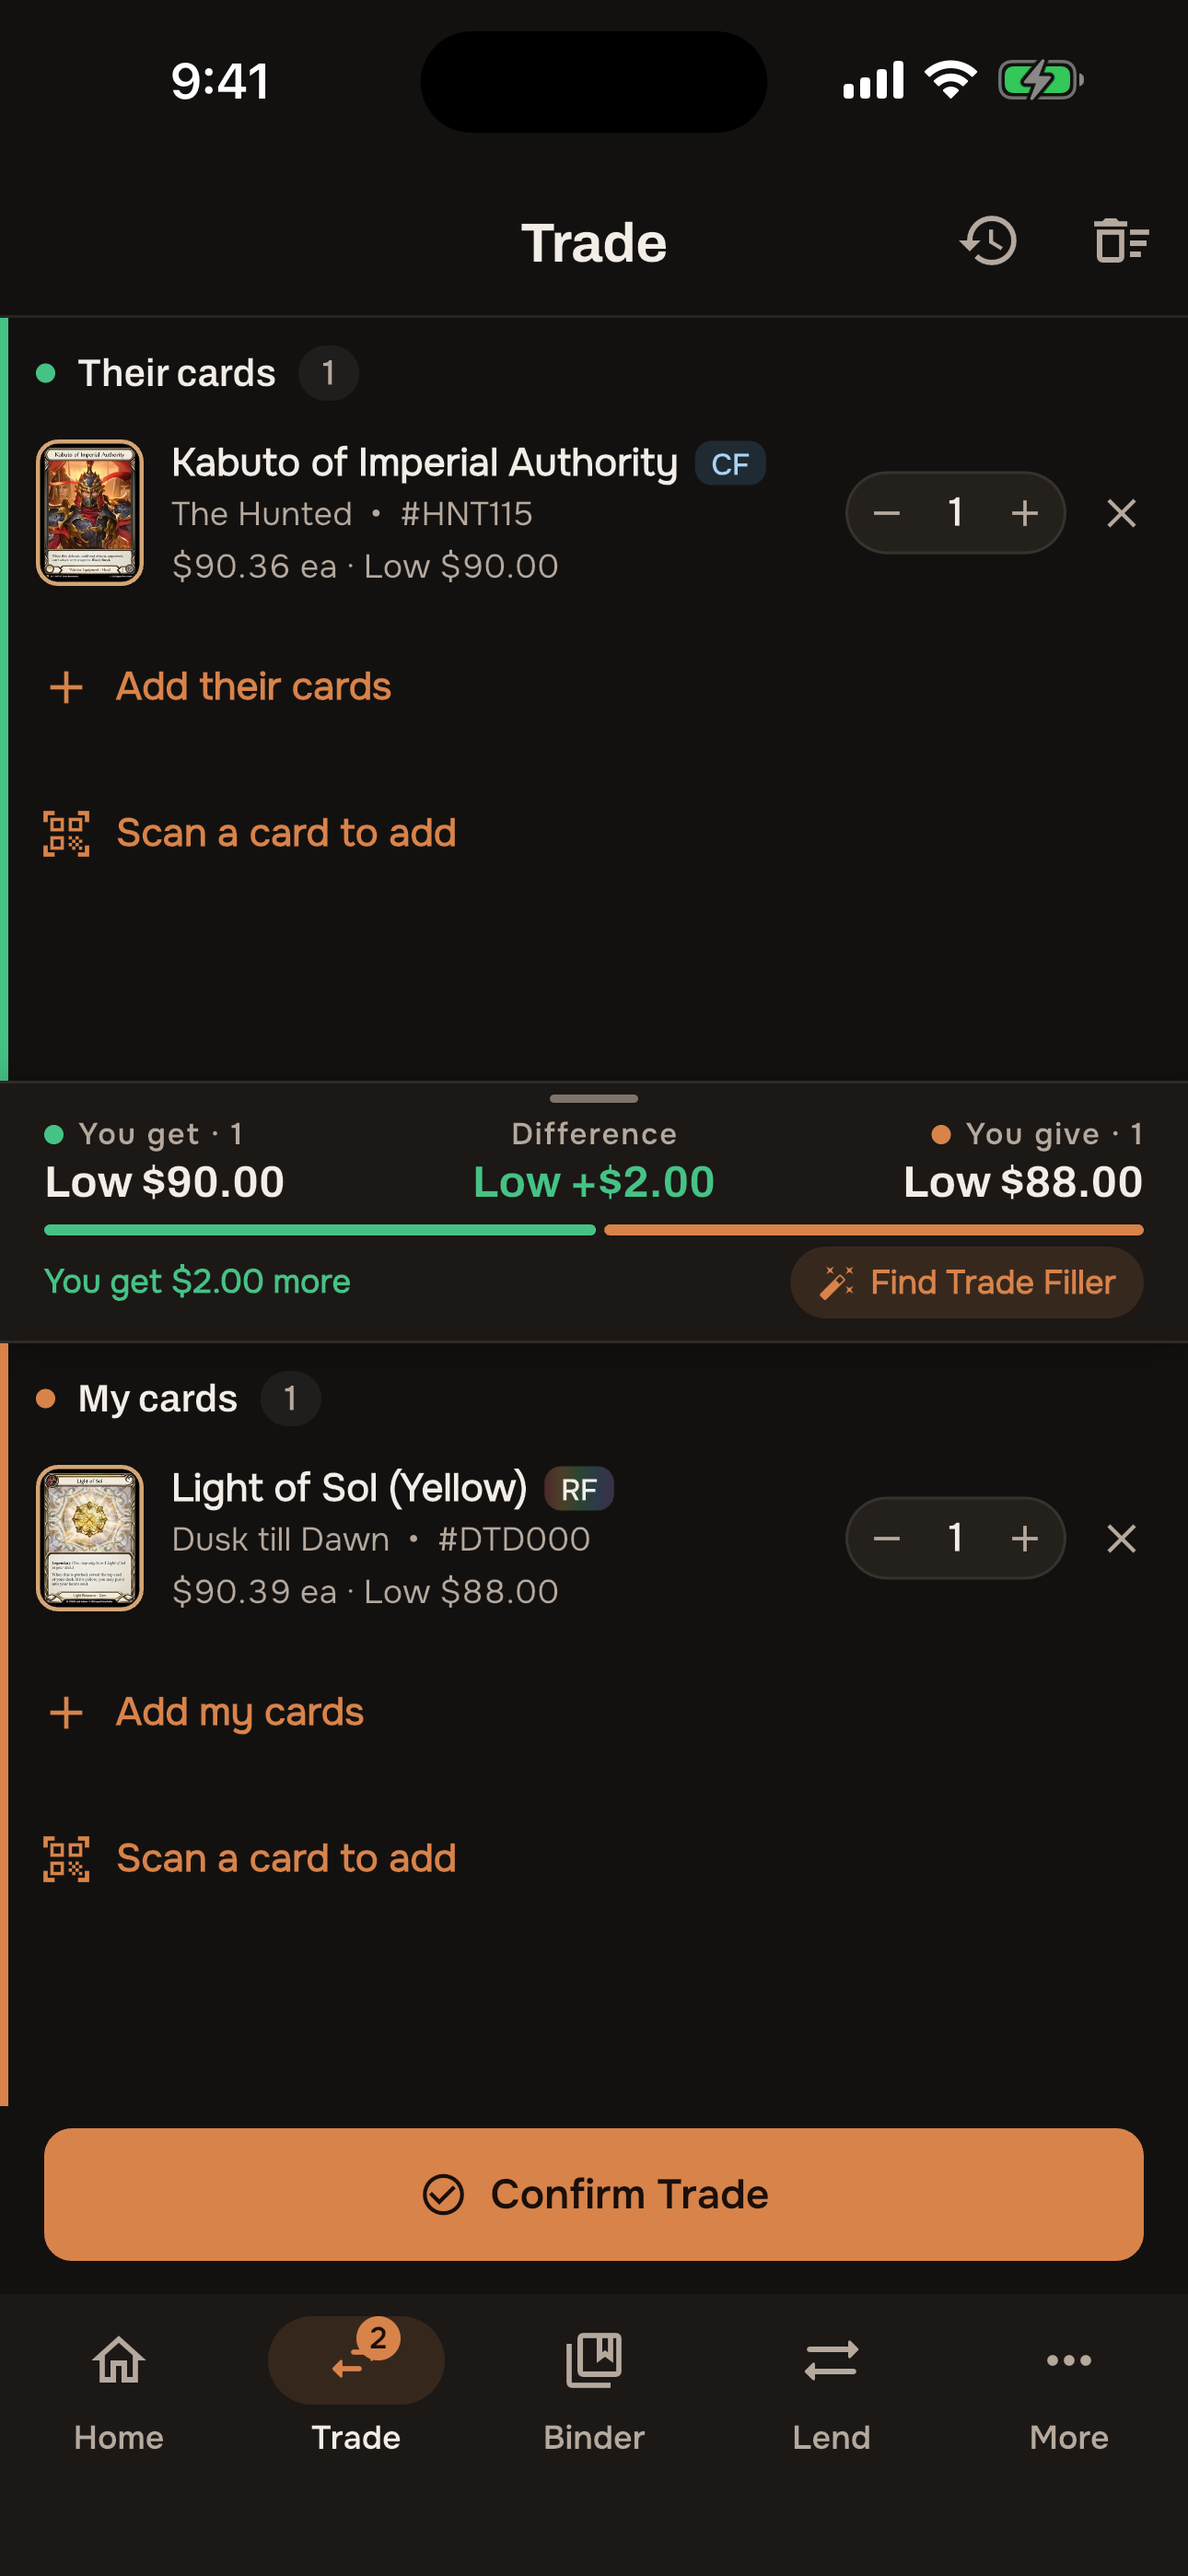
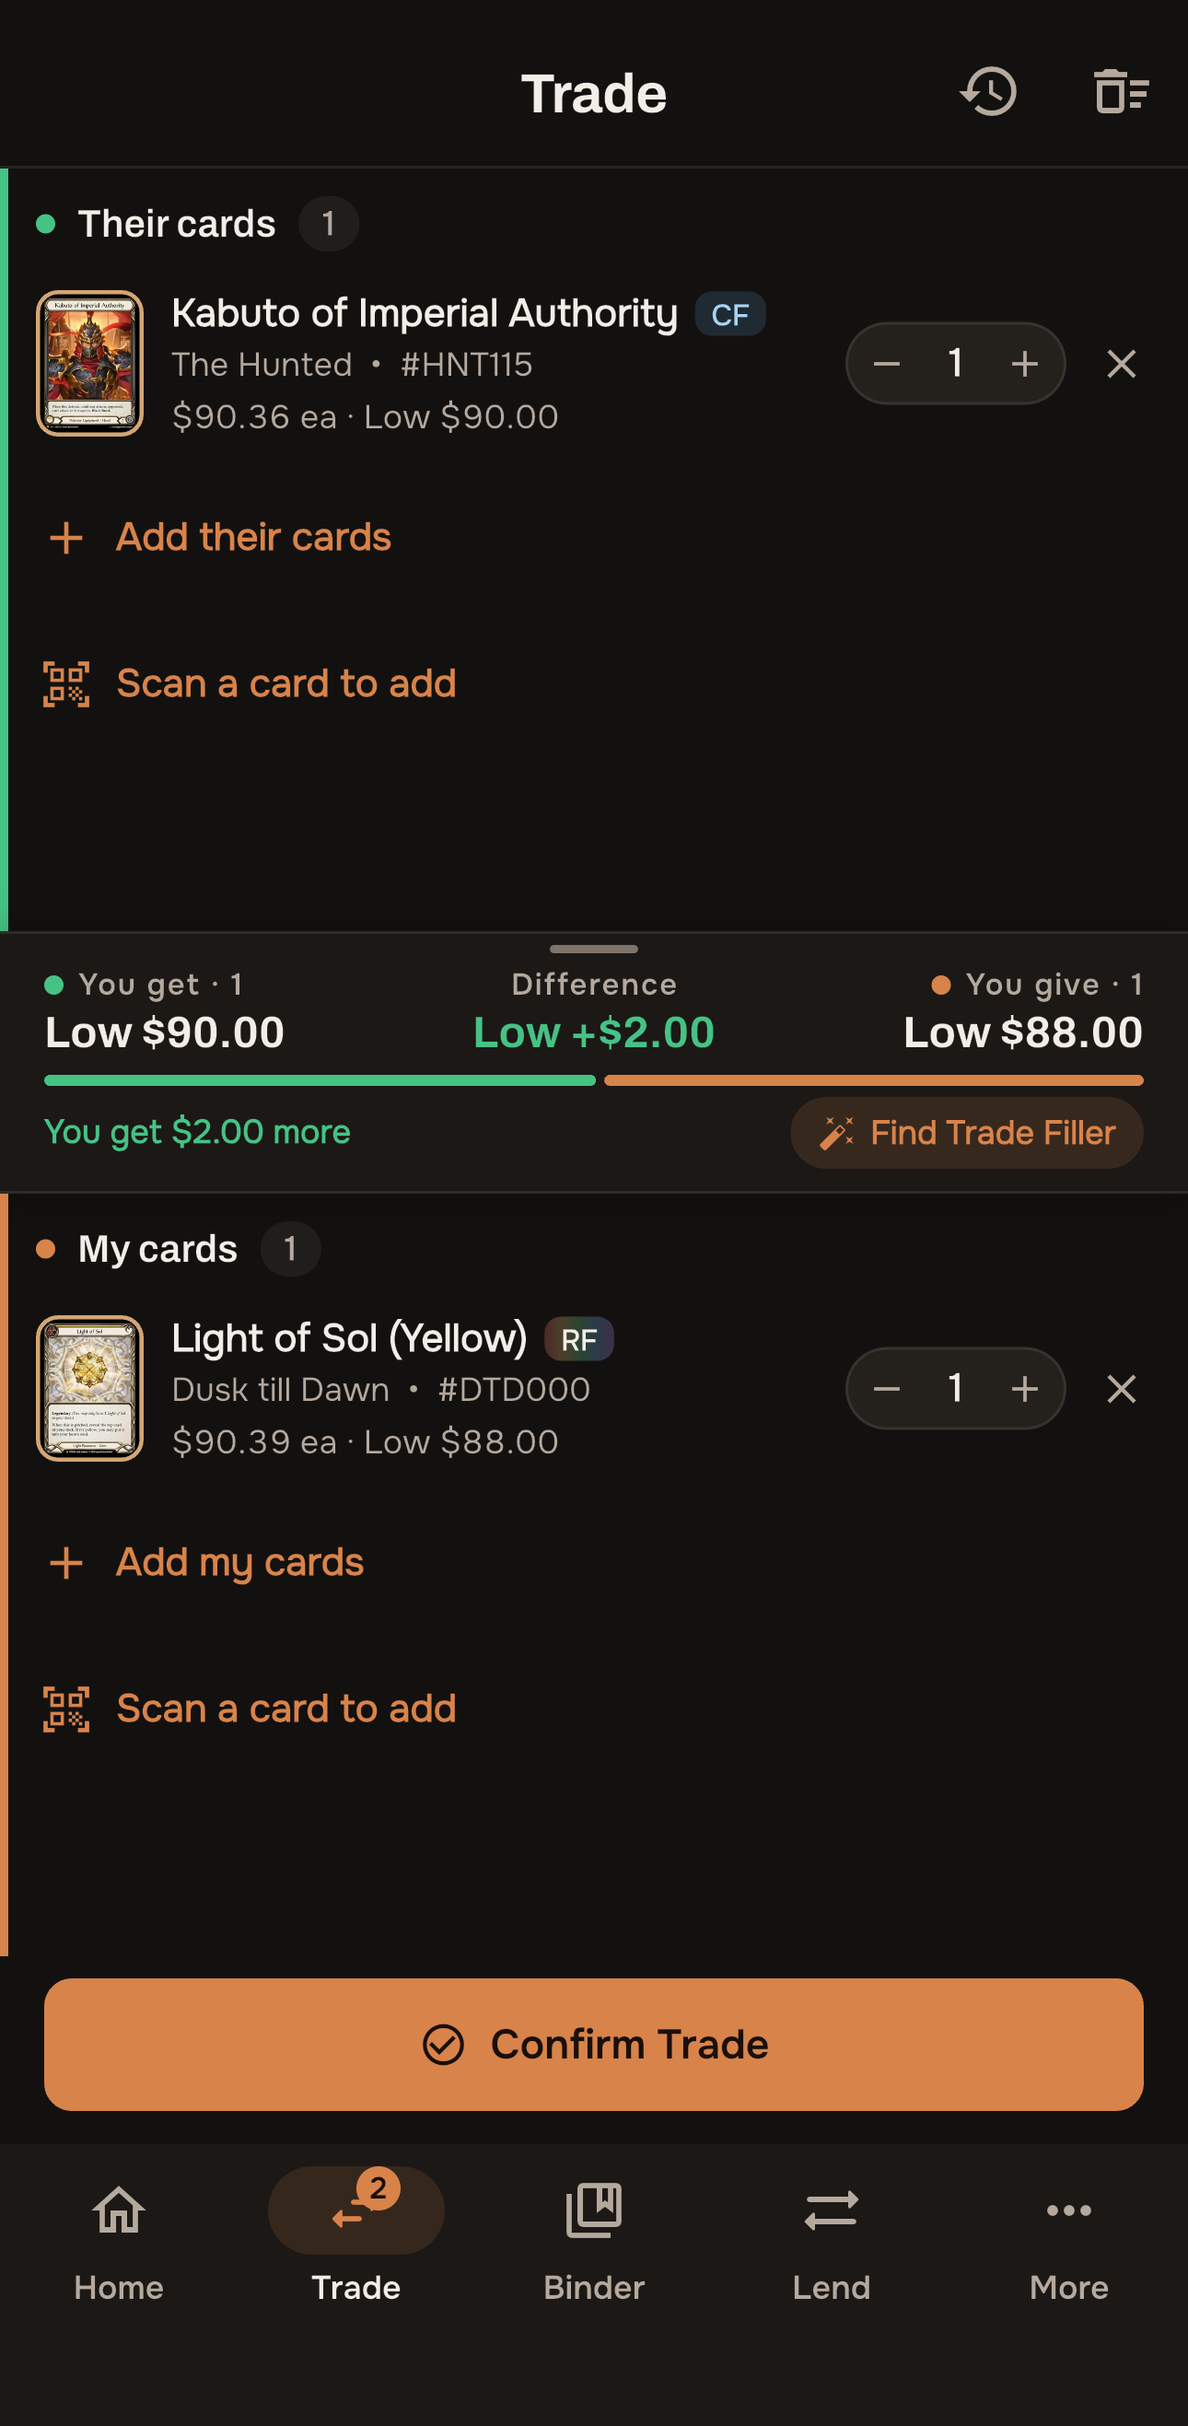
Store screenshots: frame the iOS simulator captures
Trade, Binder and Lend now come from iPhone 16 Plus simulator shots, and
Scan from the phone capture, all kept in sim/ with the status bar cropped
and their lifted-out panels in sim/boxes.json. Browse stays on the web
capture: the simulator's Fyendal's Spring Tunic page showed a mismatched
CardMarket price.

Claude-Session: https://claude.ai/code/session_01RsfGpeqNYE93T8HeFeVAYn

diff --git a/apps/mobile/tool/store_screenshots/README.md b/apps/mobile/tool/store_screenshots/README.md
@@ -28,11 +28,12 @@ It does not upload anything to either store.
 
 ## Limits
 
-- **Scan** can't be captured: the scanner needs a real camera and ML Kit, neither of
-  which runs on the web. `compose.mjs` frames `scan.png` instead, a phone screenshot
-  of a scan with the match sheet up. To replace it, crop the status bar off a new
-  iPhone screenshot, scale it to 1290px wide, save it over `scan.png`, and adjust the
-  lifted-out box on the `01-scan` entry in `compose.mjs` if the results moved.
+- **Device captures win.** `compose.mjs` uses `sim/<screen>.png` over the web
+  capture when one exists. These are iOS screenshots (simulator, or a phone for
+  Scan) with the status bar cropped off: the top 162px of a 1290×2796 iPhone
+  screenshot, saved at 1290px wide. `sim/boxes.json` holds their lifted-out panels
+  in points. Scan always comes from here, since the scanner needs a real camera and
+  ML Kit, neither of which runs on the web. Browse comes from the web capture.
 - The web build uses Chromium's text rendering, so it is close to, but not
   pixel-identical with, the iOS build.
 
